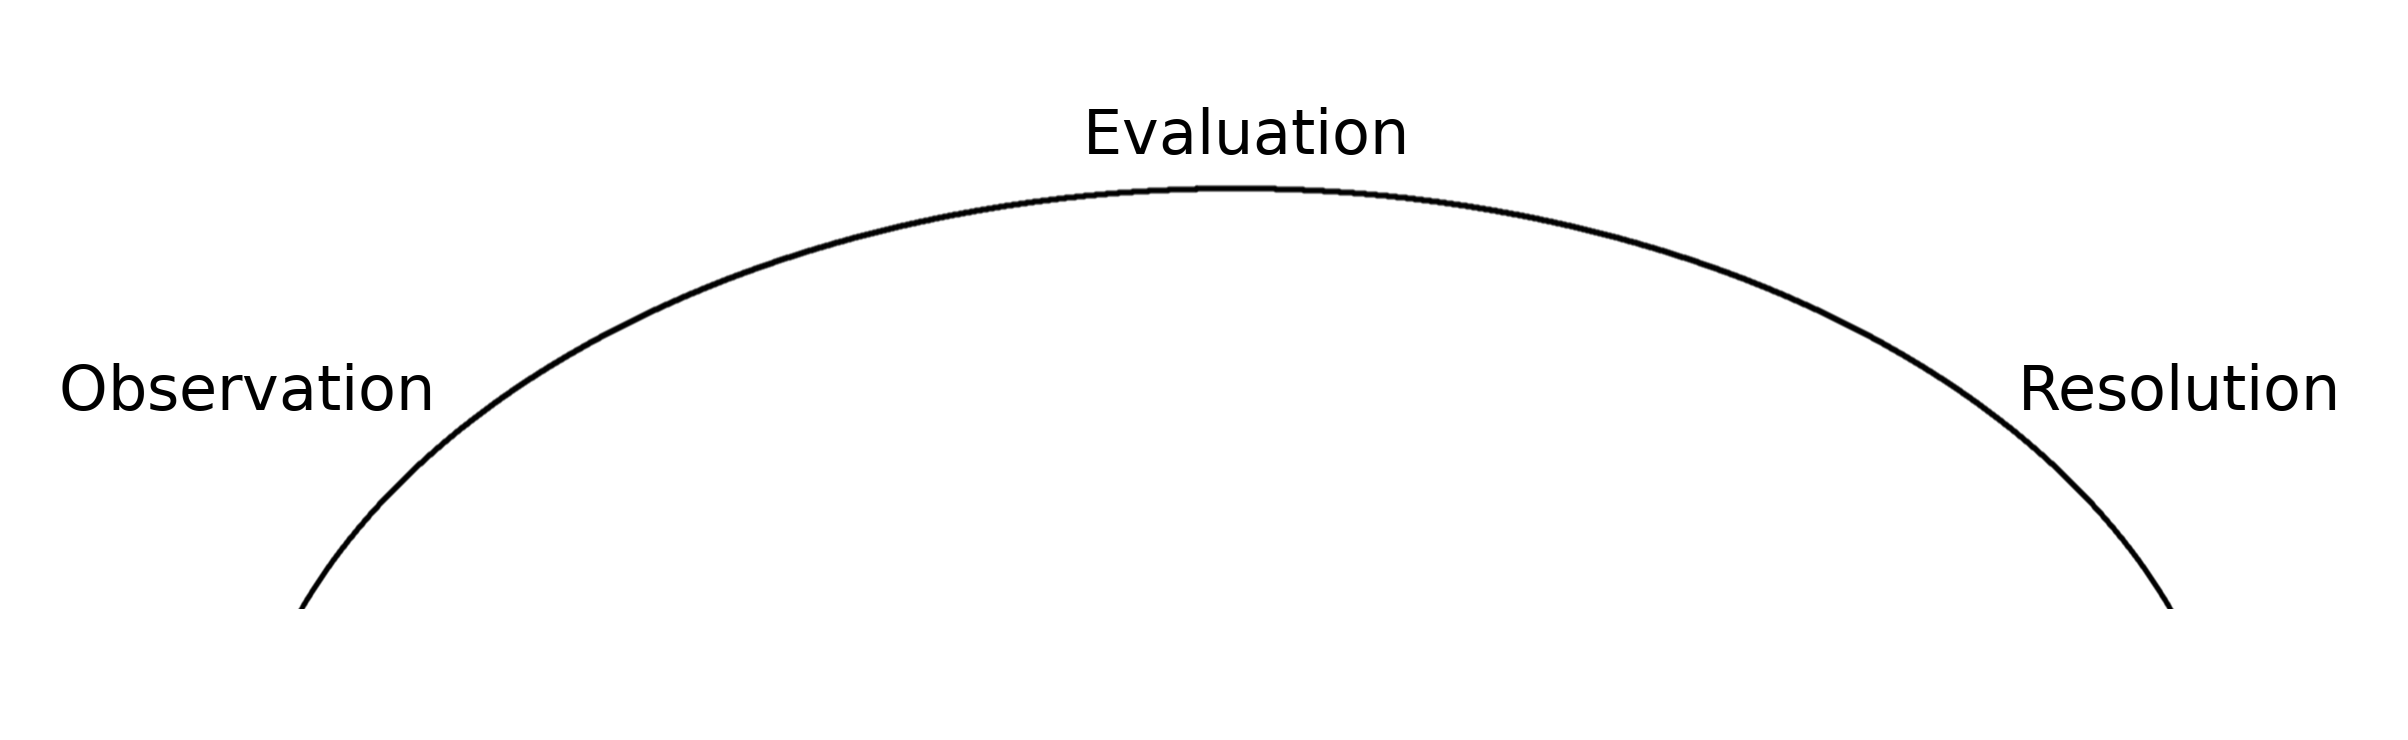
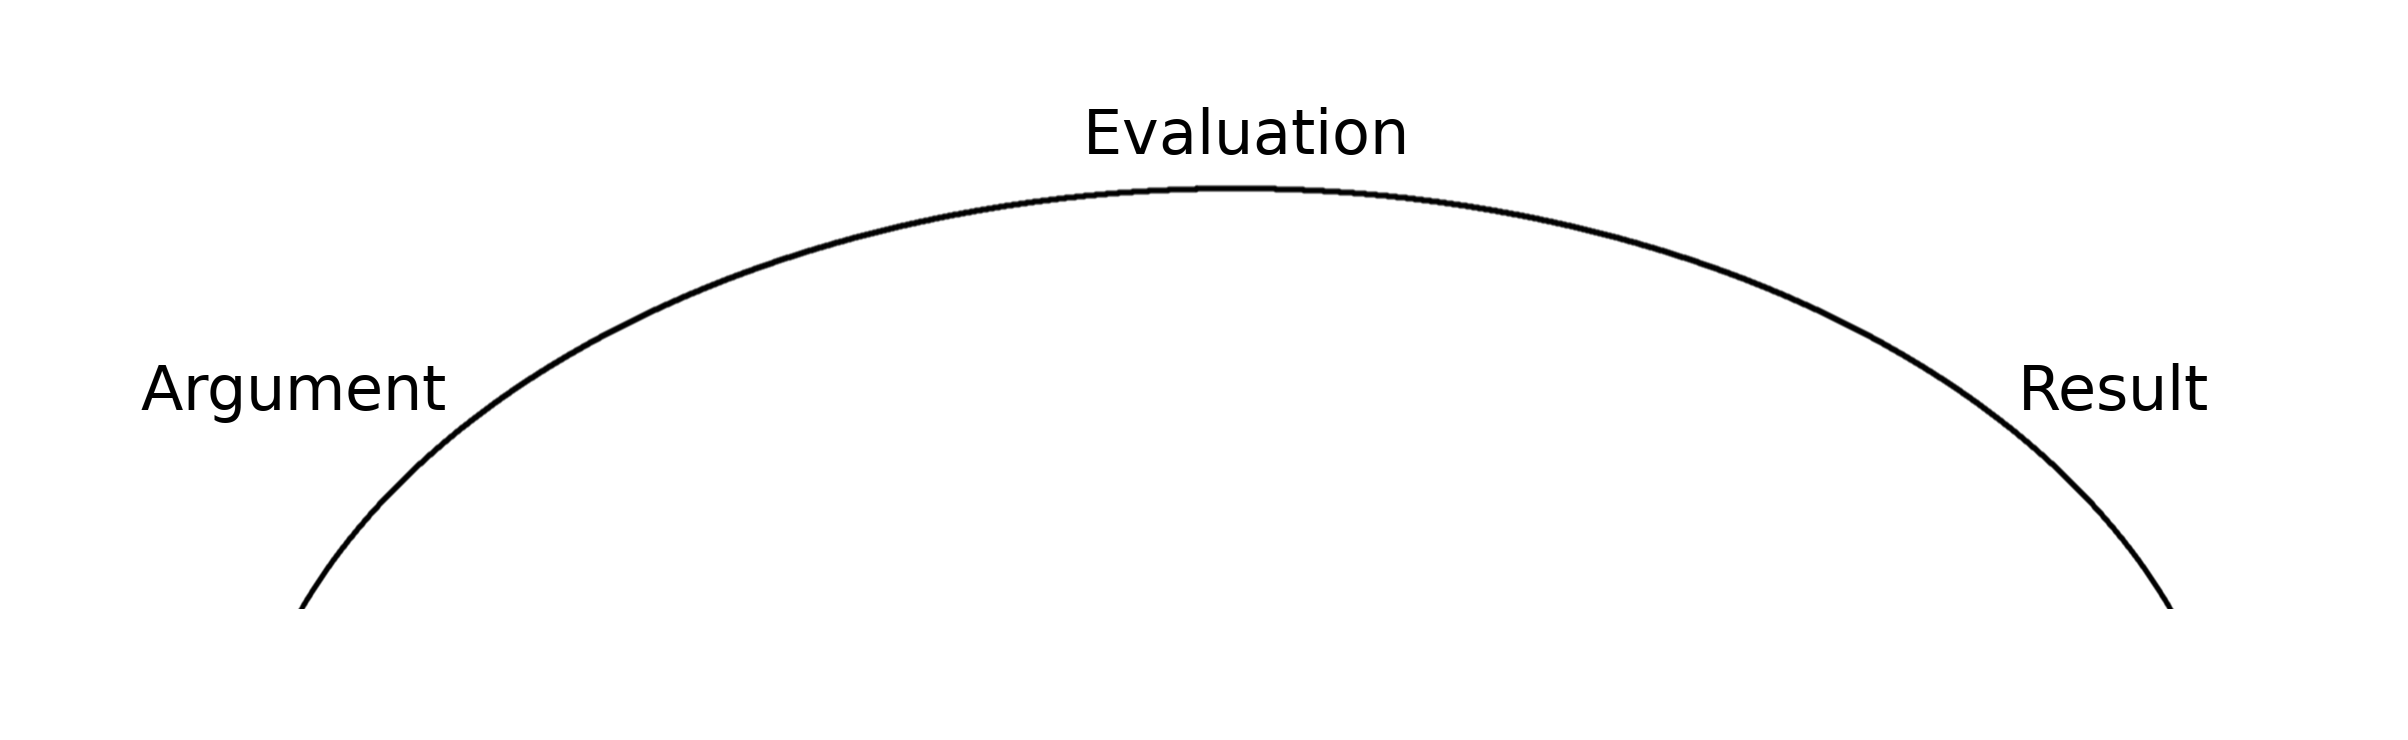
Change "observation" to "argument"
This change from "observation" to "argument" is justified a few ways.
First, I was unhappy with the word "observation" as being both
too general and too vague, and so sought a new description.
"Argument" more accurately captures what a process is doing, or
what is going on within a process, than does "observation."

Second, if we choose to define a process as a function, then we
must express it as mapping a set of elements to a set of elements;
in this case, the "argument" of a process (or function) must be
well-defined.

Third, as a result of this new description, the entity (process)
becomes better-defined-- and, I feel, still retains the accuracy
of the intended meaning.

Fourth, as a matter of coincidence, this new view facilitates
viewing the process as a whole-- that is, viewing all three
parts of a process simultaneously, rather than viewing them
in succession.

The change from "resolution" to "result" is the compliment of
this change.

Changed region(s): [[0.0311, 0.4973, 0.1869, 0.5595], [0.8721, 0.4973, 0.9655, 0.5595]]

diff --git a/abstraction/processes.html b/abstraction/processes.html
@@ -47,10 +47,15 @@
 		</p>
 
 		<p>
-			Each process has three distict parts: Observation, Evaluation, and Resolution.
+			Each process has three distict parts: Argument, Evaluation, and Result.
+			I intend this to be understood as, "The process's <i>argument</i>," "The process's <i>evaluation</i>,"
+			and "The process's <i>result</i>," respectively.
 		</p>
 
 		<img src="img/process_1.png"></img>
+
+		<p>
+
 
 		<p>
 			Processes can be built up from constituent processes.
